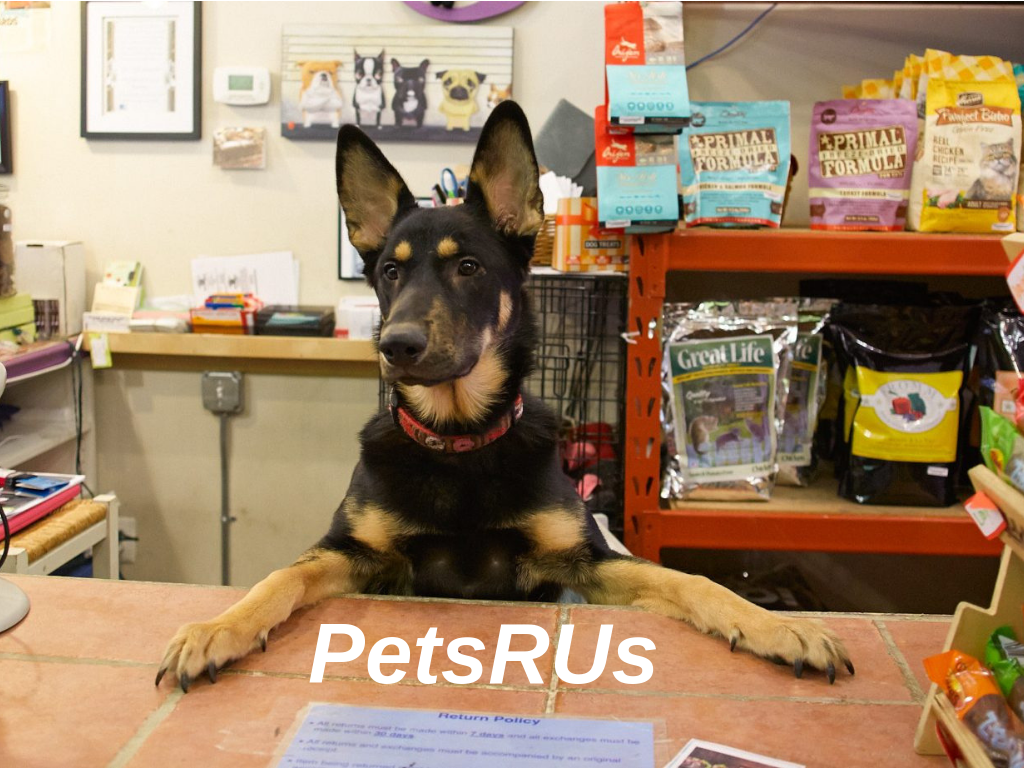
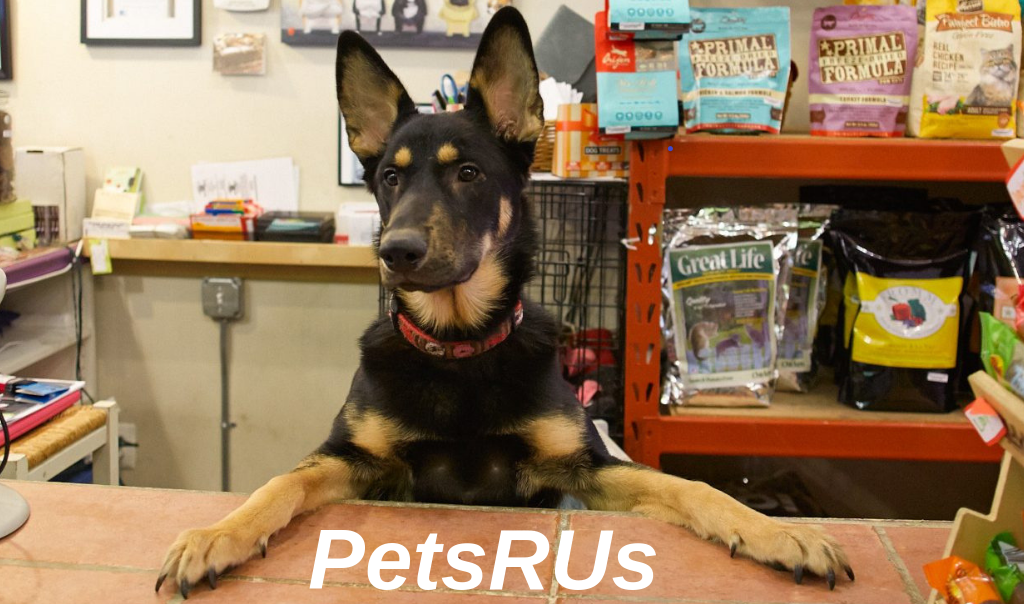
fixed picture

diff --git a/src/index.html b/src/index.html
@@ -3,6 +3,7 @@
 <head>
     <link rel="stylesheet" href="sytles.css">
     <link rel="stylesheet" href="https://cdnjs.cloudflare.com/ajax/libs/font-awesome/4.7.0/css/font-awesome.min.css">
+
 </head>
 <body>
 
@@ -21,7 +22,7 @@
         </div> 
       </div>
 
-<img src="../assets/PetsRUs.png"  height="80%">
+<img src="../assets/PetsRUs.png" width = "100%" height = "680px">
 
 <div class="footer">Copyright © 2019 PetsRUs, Inc. All Rights Reserved. </div>
 </body>
